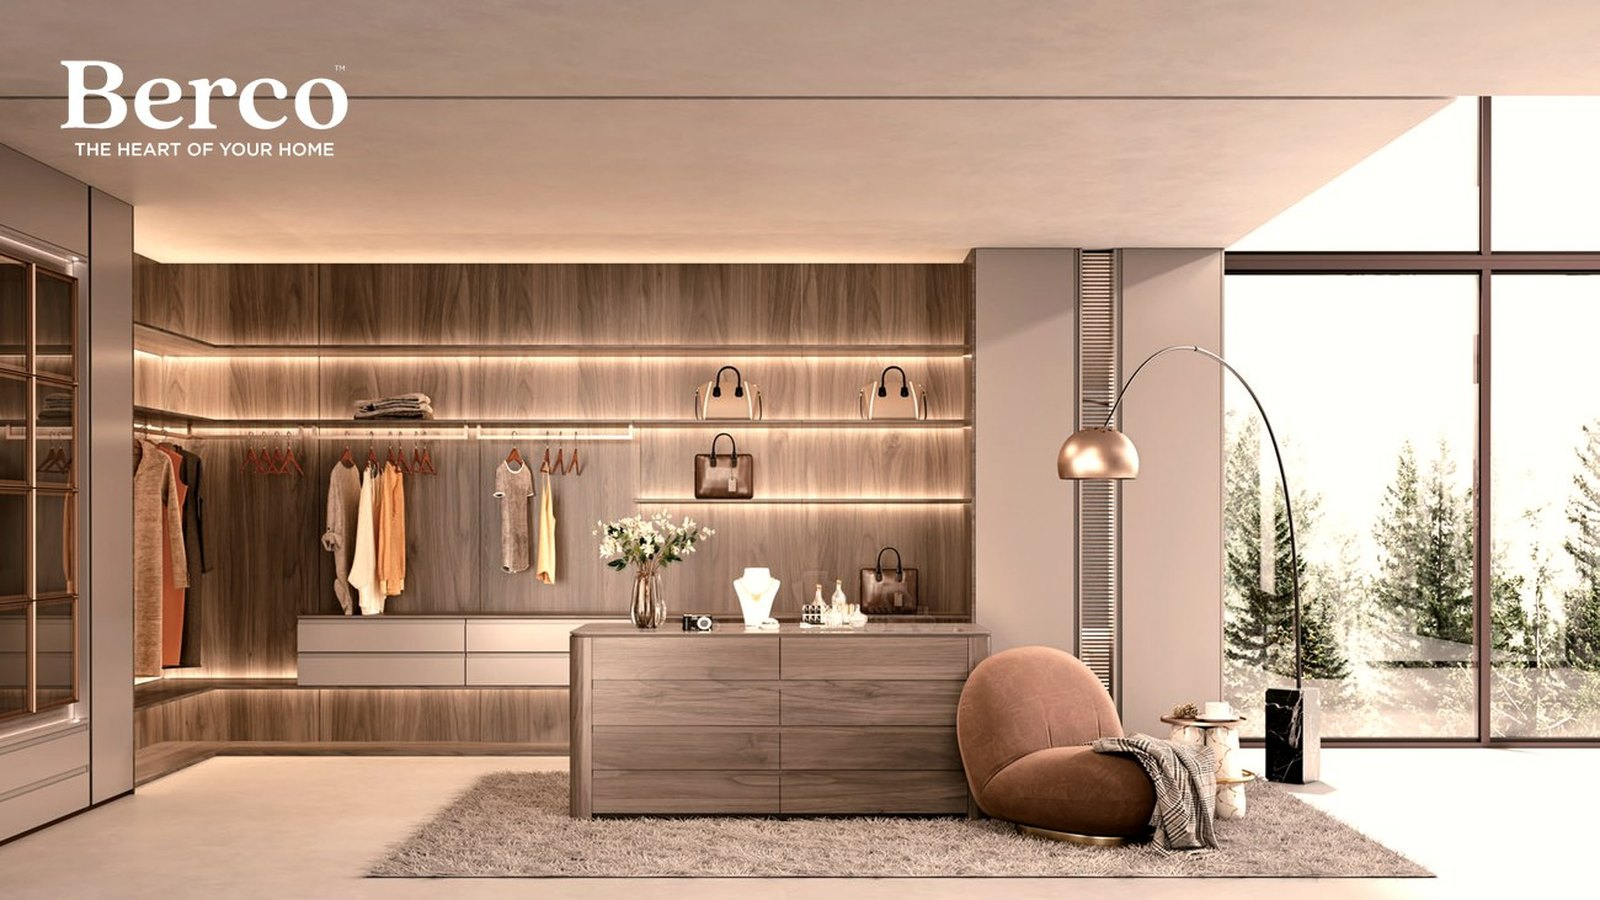
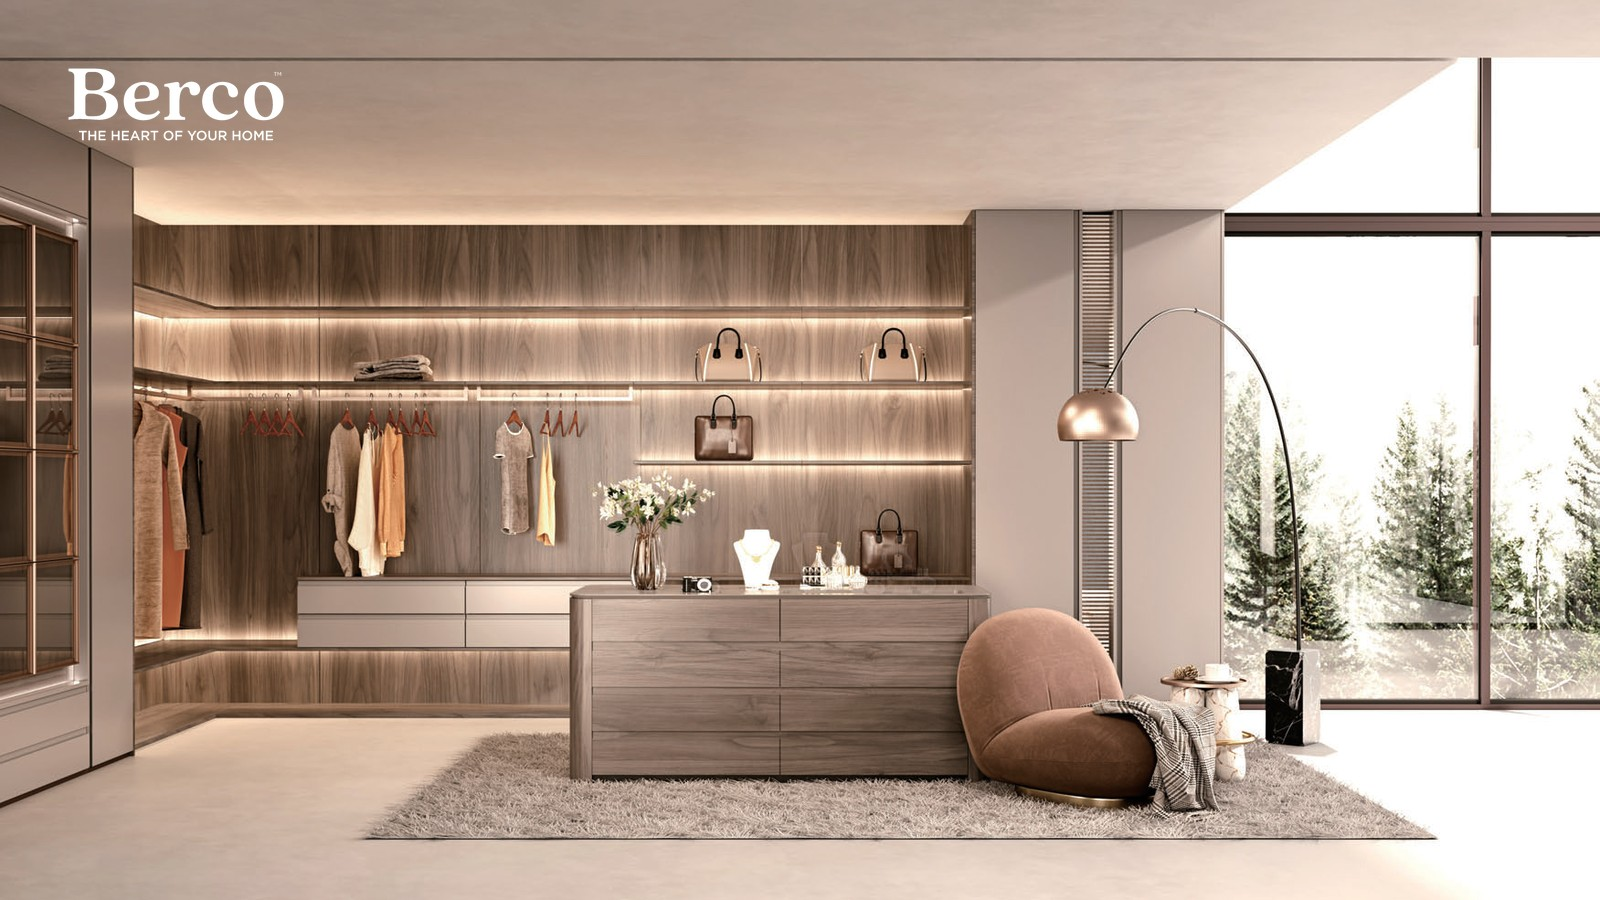
Wardrobes: re-stamp all 20 from CLEAN source at locked uniform spec (15% width, plain white, no glow)
- Root fix for non-uniform + glowing watermarks: baked marks ranged 17-39% and some carried glow; re-stamped every image fresh onto the clean source render (never edited over an existing watermark), per the locked spec in berco-design-reference.md
- Replaced the mis-filed kitchen-sink image + the duplicate + 6 no-clean-source gaps with fresh clean wardrobe references (motion-source + Oppolia pool, supplier band cropped, gated)

diff --git a/app/collections/data.js b/app/collections/data.js
@@ -59,14 +59,9 @@ export const CATS = {
     keywords: ['walk-in wardrobe Philippines', 'fitted wardrobe Philippines', 'custom closet Manila', 'bedroom wardrobe Philippines', 'Berco wardrobes'],
     images: [
       { src: 'walk-in-wardrobe-fitted-storage-philippines.jpg', alt: 'Walk-in wardrobe with fitted hanging, drawers and shelving — Berco design reference', cap: 'Walk-in wardrobe · design reference', slug: 'greige-walk-in-fitted-hanging', title: 'Greige Walk-In with Open Corner Hanging', blurb: 'A calm greige walk-in that mixes floor-to-ceiling doors with an open corner run of hanging and curved shelving. Slim vertical handles keep the fronts clean, and warm strip lighting sits above each bay so garments stay easy to read. A low upholstered bench gives you room to dress without crowding the space.' },
-      { src: 'walk-in-wardrobe-island-dresser-philippines.jpg', alt: 'Walk-in wardrobe with a central dresser island, glass-front cabinets and a display feature panel — Berco design reference', cap: 'Walk-in with dresser island', wide: true, slug: 'walk-in-dresser-island-glass-front', title: 'Walk-In with a Central Dresser Island', blurb: 'Glass-front cabinets frame a backlit feature panel here, with a stacked drawer island set at the centre for jewellery and folded pieces. A compact wall vanity and round mirror keep a dressing spot within reach. The layout holds hanging, display, and everyday storage in clear, separate zones.' },
-      { src: 'walk-in-closet-white-fitted-philippines.jpg', alt: 'White fitted walk-in closet with hanging, drawer banks and glass-front cabinets — Berco design reference', cap: 'White, fitted throughout', slug: 'white-fitted-hanging-drawers', title: 'White Fitted Closet for Suits and Shirts', blurb: 'A close look at a white fitted interior built for tailoring: open hanging on slim rails, shaker drawer banks below, and fabric boxes along the top shelf. A glass-front cabinet with strip lighting keeps a set of shirts on show. Warm light along each rail makes it easy to see what you reach for.' },
-      { src: 'walk-in-wardrobe-dark-walnut-philippines.jpg', alt: 'Dramatic dark-walnut walk-in wardrobe with a glass display cabinet and a central island — Berco design reference', cap: 'Dark walnut walk-in', wide: true, slug: 'dark-walnut-glass-display-walk-in', title: 'Dark Walnut Walk-In with Glass Display', blurb: 'A darker scheme in walnut and matte grey, planned as a walk-through between two runs of storage. Glass-front cabinets with strip lighting hold shoes and folded pieces, while a black-framed glass etagere at the centre displays hats and accessories. The tone stays quiet and grounded against the view.' },
-      { src: 'bedroom-wardrobe-two-tone-philippines.jpg', alt: 'Bedroom with a two-tone fitted wardrobe wall and a dressing area — Berco design reference', cap: 'Two-tone wardrobe wall', slug: 'two-tone-wardrobe-wall-dressing', title: 'Two-Tone Wardrobe Wall with Dressing Area', blurb: 'A fitted wardrobe wall that pairs cream fronts with a warm rust-framed, glass-front centre for hanging on show. Arched top panels soften the run, and a wall-hung vanity with a round mirror sets up a dressing spot to one side. A considered mix of closed storage and open display in a bedroom setting.' },
       { src: 'walk-in-wardrobe-island-philippines.jpg', alt: 'Walk-in wardrobe with a dressing island and glass-front storage — Berco design reference', cap: 'Dressing island', wide: true, slug: 'oak-walk-in-drawer-island', title: 'Oak Walk-In with Curved Drawer Island', blurb: 'A warm oak walk-in arranged around a curved-corner drawer island with a stone top for folding and laying out. Open shelving and glass-front units line the walls for bags, boxes, and hanging, and a small vanity nook sits to one side. Soft strip lighting keeps every bay clear.' },
       { src: 'dressing-room-wardrobe-philippines.jpg', alt: 'Warm dressing room with fitted wardrobe and a full-height mirror — Berco design reference', cap: 'Dressing room', slug: 'warm-dressing-room-mirror', title: 'Warm Dressing Room with Full-Height Mirror', blurb: 'A softly lit dressing room with a run of taupe handleless wardrobes and bronze-framed mirrored doors that carry the light across the room. A wavy full-length mirror gives a spot to check an outfit, and a leather bench sits at the centre. The palette stays warm and calm, built for slow mornings.' },
       { src: 'greige-walk-in-wardrobe-philippines.jpg', alt: 'Greige walk-in wardrobe with open shelving and drawers — Berco design reference', cap: 'Fitted, front to back', slug: 'greige-walk-in-green-island', title: 'Greige Walk-In with Sage Drawer Island', blurb: 'A greige walk-in centred on a sage-green drawer island with a mirrored plinth. Backlit open shelving in the same green sets off a display niche, while hanging and tall cabinets keep the rest closed and tidy. The scheme opens toward a living area, so the wardrobe reads as part of the home.' },
-      { src: 'wardrobe-fitted-storage-organiser-philippines.jpg', alt: 'Cabinet-door pull-out organiser with fitted accessory storage — Berco design reference', cap: 'Considered interiors', slug: 'door-mounted-accessory-organiser', title: 'Door-Mounted Organiser Panel', blurb: 'A detail shot of a fitted door-mounted organiser: a pegboard panel with adjustable hooks that keeps everyday tools on the inside of a cabinet door. It shows how interior fittings can be planned into cabinetry rather than added later. Small touches like this decide how a fitted space actually works day to day.' },
       { src: 'walk-in-wardrobe-backlit-gold-philippines.jpg', alt: 'Walk-in wardrobe with backlit brass-framed open shelving around a central panel — Berco design reference', cap: 'Backlit & brass', slug: 'backlit-oak-display-shelving', title: 'Backlit Oak Display Shelving with Mirror', blurb: 'A warm-wood shelving grid lit with fine strip lighting, arranged around a central mirror panel for books, frames, and small objects. The backlighting turns everyday storage into a quiet display wall, framed by plain cream cabinets on either side. A calm way to break up a long run of closed fronts.' },
       { src: 'walk-in-wardrobe-mirror-run-philippines.jpg', alt: 'Long greige wardrobe run with a full-height mirror and city view — Berco design reference', cap: 'Greige run', wide: true, slug: 'greige-wardrobe-run-city-view', title: 'Long Wardrobe Run with Display and Mirror', blurb: 'A long wardrobe run that mixes plain greige doors with an open, backlit warm-wood section for books and folded pieces. A central mirrored cabinet and low drawers anchor the middle, and a freestanding mirror stands ready for dressing. Floor-to-ceiling glass and a city view keep the room open.' },
       { src: 'wardrobe-vanity-dressing-area-philippines.jpg', alt: 'Fitted wardrobe with an integrated vanity and dressing area under soft light — Berco design reference', cap: 'Wardrobe & vanity', slug: 'wardrobe-integrated-vanity', title: 'Fitted Wardrobe with Integrated Vanity', blurb: 'A fitted wardrobe that folds a dressing table into the run: glass-front hanging on one side, tall closed storage, and an oak-lined niche with a round lit mirror and drawers at the centre. A soft stool tucks under when it is not in use. Everything you need to get ready stays in one place.' },
@@ -75,9 +70,14 @@ export const CATS = {
       { src: 'wardrobe-copper-open-shelving-philippines.jpg', alt: 'Wardrobe wall with copper-toned open shelving and fitted cabinets — Berco design reference', cap: 'Copper shelving', slug: 'blush-wardrobe-copper-shelving', title: 'Blush Wardrobe with Copper Shelving Niches', blurb: 'Glossy blush-toned wardrobes with recessed open niches finished in a warm copper tone, lit to show a few pieces at a time. Arched back panels and a fluted drawer section add detail without clutter, and a raised window platform brings daylight in. A softer, warmer take on a fitted wall.' },
       { src: 'walk-in-wardrobe-compact-glass-philippines.jpg', alt: 'Compact walk-in wardrobe with glass-front units and dark interior inserts — Berco design reference', cap: 'Compact walk-in', slug: 'compact-walk-in-glass-front', title: 'Compact Walk-In with Glass Fronts', blurb: 'A narrow walk-in that makes full use of a small footprint, with matching cabinets running down both walls and open hanging in the centre. Upper storage boxes keep the top shelves tidy, a patterned backing panel adds depth, and a mirrored glass cabinet with lit shelves sits to one side. Compact, but fully planned.' },
       { src: 'dressing-room-island-display-philippines.jpg', alt: 'Warm-wood dressing room with a display island and a wall of open shelving — Berco design reference', cap: 'Dressing island', wide: true, slug: 'walnut-dressing-room-display-island', title: 'Walnut Dressing Room with Display Island', blurb: 'A warm walnut dressing room with a full wall of backlit open shelving for bags and folded pieces, a long hanging rail, and a solid drawer island at the centre. A rounded lounge chair and an arc lamp turn it into a room you would want to spend time in. Forest views sit just beyond the glass.' },
-      { src: 'walk-in-wardrobe-philippines.jpg', alt: 'Walk-in wardrobe with fitted storage and a dressing island — Berco design reference', cap: 'Tailored storage', slug: 'oak-walk-in-tailored-storage', title: 'Oak Walk-In with Tailored Zones', blurb: 'Warm oak cabinetry organised into clear zones: long hanging, open shelving for boxes and bags, and a curved drawer island for folded pieces. Glass-front units keep one section on view, and a tucked-away vanity gives you a place to get ready. A layout planned around how a wardrobe is used day to day.' },
-      { src: 'sliding-wardrobe-vanity-mirror-philippines.jpg', alt: 'White sliding-door wardrobe with an integrated mirror and a timber dressing table — Berco design reference', cap: 'Sliding & vanity', slug: 'sliding-wardrobe-timber-vanity', title: 'Sliding Wardrobe with Timber Vanity', blurb: 'A cream sliding-door wardrobe with a tall mirror panel and a timber dressing table built into the run. The sliding fronts keep the walkway clear in a bedroom, and an open bay shows hanging, folded knits, and pillows behind. A practical layout for a room where floor space is tight.' },
-      { src: 'beige-walk-in-island-shelving-philippines.jpg', alt: 'Beige textured walk-in closet with a drawer island and open display shelving — Berco design reference', cap: 'Beige walk-in', wide: true, slug: 'travertine-walk-in-drawer-island', title: 'Travertine-Look Walk-In with Drawer Island', blurb: 'A warm walk-in finished in a travertine-look texture, with backlit open shelving and hanging framing a low drawer island for folding. The stone-toned fronts keep the scheme soft and even, and a ring pendant adds a light touch beside the bed. Built to sit calmly next to the sleeping area.' },
+      { src: 'walk-in-dressing-room-warm-oak-philippines.jpg', alt: 'Warm oak walk-in dressing room with open hanging along one wall and a low drawer island at the centre — Berco design reference', cap: 'Warm oak walk-in', slug: 'warm-oak-walk-in-dressing-room', title: 'Warm Oak Walk-In Dressing Room', blurb: 'A warm walk-in dressing room in oak, with a run of open hanging along one wall and a low drawer island at the centre. Glass-front cabinetry keeps folded pieces and accessories on show under soft strip light, and the stone floor keeps the room calm and grounded.' },
+      { src: 'glass-door-wardrobe-suite-philippines.jpg', alt: 'Bedroom wardrobe run behind reeded-glass sliding doors framed in warm metal — Berco design reference', cap: 'Reeded-glass wardrobe', slug: 'reeded-glass-wardrobe-suite', title: 'Reeded-Glass Wardrobe Suite', blurb: 'A bedroom wardrobe run behind reeded-glass sliding doors, framed in warm metal. The glass softens what sits inside while keeping everything easy to find, and the fronts stay flush to the wall so the room reads calm and uncluttered.' },
+      { src: 'open-walk-in-island-modern-philippines.jpg', alt: 'Open walk-in planned around a central drawer island with hanging, shelving and glass-front cabinets on the walls — Berco design reference', cap: 'Open walk-in & island', slug: 'open-walk-in-drawer-island', title: 'Open Walk-In with Drawer Island', blurb: 'An open walk-in planned around a central drawer island, with hanging, shelving and glass-front cabinets running the walls. Everything stays visible and within reach, and the mix of pale cabinetry and darker display bays gives the room depth.' },
+      { src: 'grey-marble-dressing-room-philippines.jpg', alt: 'Darker grey dressing room with a marble feature wall, round mirror and a low bench — Berco design reference', cap: 'Grey & marble dressing room', slug: 'grey-dressing-room-marble-feature', title: 'Grey Dressing Room with Marble Feature', blurb: 'A darker dressing room in grey with a marble feature wall and a round mirror. Full-height fronts stay handleless and quiet, and a low bench gives you somewhere to sit while you dress. A calm, grown-up scheme for a main suite.' },
+      { src: 'fitted-wardrobe-wall-mural-philippines.jpg', alt: 'Fitted wardrobe wall in warm neutrals with glass-front bays over a landscape-mural back panel — Berco design reference', cap: 'Fitted wall, display bays', slug: 'fitted-wardrobe-wall-display-bays', title: 'Fitted Wardrobe Wall with Display Bays', blurb: 'A fitted wardrobe wall in warm neutrals, with a run of glass-front bays over a patterned back panel. Open hanging and drawers sit behind glass so the display stays tidy, and integrated light keeps each bay easy to read.' },
+      { src: 'grey-wardrobe-run-dressing-philippines.jpg', alt: 'Long grey wardrobe run with closed fronts and a glass-door hanging section, and a dressing counter at one end — Berco design reference', cap: 'Grey run & dressing', slug: 'grey-wardrobe-run-dressing-end', title: 'Grey Wardrobe Run with Dressing End', blurb: 'A long grey wardrobe run with a mix of closed fronts and a glass-door hanging section, planned wall-to-wall. A dressing counter and mirror sit at one end, and the muted palette keeps a big run of storage feeling quiet.' },
+      { src: 'white-walk-in-hanging-philippines.jpg', alt: 'Bright warm-white walk-in with open hanging, shelving and drawers arranged around the room — Berco design reference', cap: 'White walk-in', slug: 'white-walk-in-open-hanging', title: 'White Walk-In with Open Hanging', blurb: 'A bright walk-in in warm white, with open hanging, shelving and drawers arranged around the room. Slim handleless fronts and a soft, even light keep it calm, and a low stool gives you room to dress without crowding the space.' },
+      { src: 'warm-walk-in-mirror-philippines.jpg', alt: 'Warm-toned walk-in with a full-height mirror and a mix of open and closed storage, doubling as a dressing area — Berco design reference', cap: 'Warm walk-in & mirror', slug: 'warm-walk-in-full-height-mirror', title: 'Warm Walk-In with Full-Height Mirror', blurb: 'A warm-toned walk-in with a full-height mirror and a mix of open and closed storage. Pale cabinetry and a soft rug keep the room gentle, with a bench and desk that let it double as a quiet dressing area.' },
     ],
   },
   living: {
